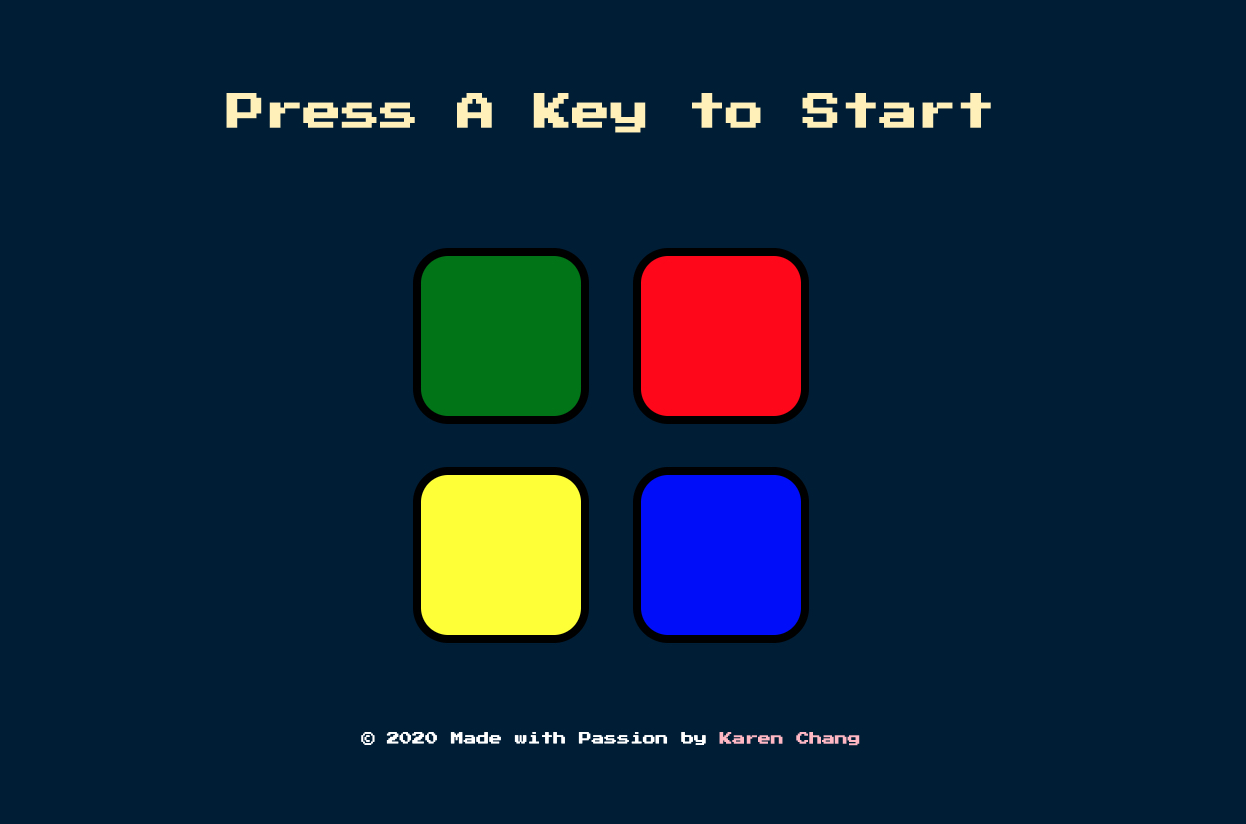
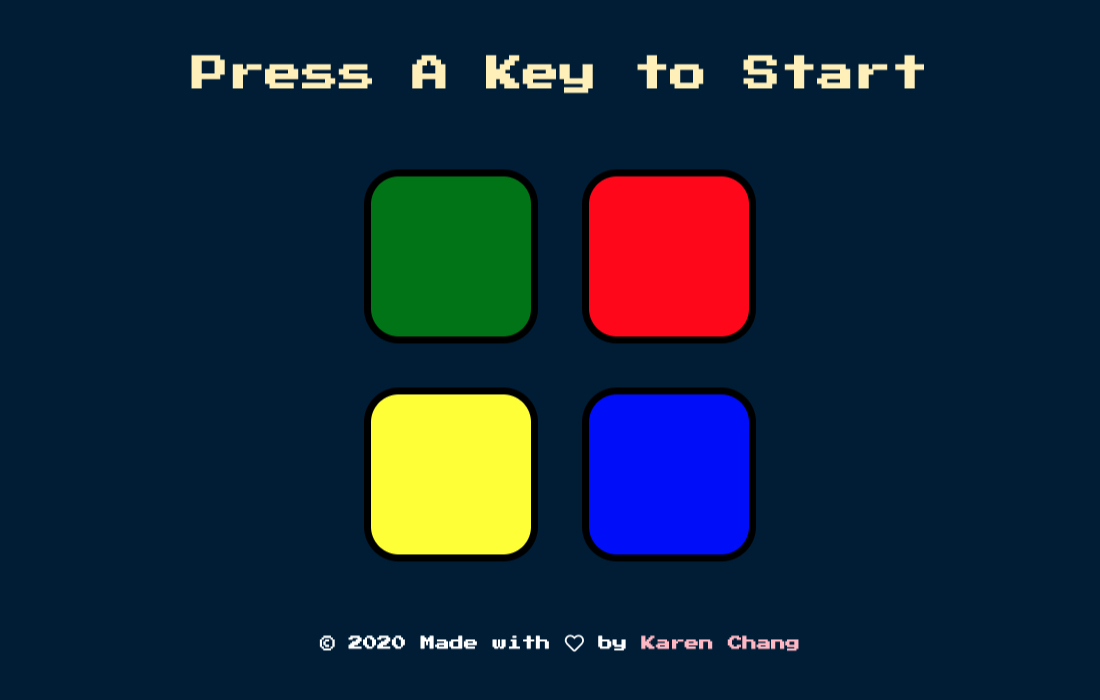
update css

Changed region(s): [[0.3091, 0.24, 0.7109, 0.81], [0.1545, 0.06, 0.8345, 0.18], [0.2782, 0.87, 0.7418, 0.93]]

diff --git a/index.html b/index.html
@@ -4,13 +4,17 @@
 <head>
   <meta charset="utf-8">
   <title>Simon Game</title>
+  <!--font awesome-->
+  <link rel="stylesheet" href="https://use.fontawesome.com/releases/v5.14.0/css/all.css"
+    integrity="sha384-HzLeBuhoNPvSl5KYnjx0BT+WB0QEEqLprO+NBkkk5gbc67FTaL7XIGa2w1L0Xbgc" crossorigin="anonymous">
+
   <link rel="stylesheet" href="styles.css">
   <link href="https://fonts.googleapis.com/css?family=Press+Start+2P" rel="stylesheet">
 </head>
 
 <body>
-  <h1 id="level-title">Press A Key to Start</h1> 
-    
+  <h1 id="level-title">Press A Key to Start</h1>
+
   <div class="container">
     <div lass="row">
 
@@ -37,7 +41,8 @@
   </div>
 
   <footer>
-    © 2020 Made with Passion by <a class="mysite" href="https://karen-developer.com" target="_blank"><strong>Karen Chang</strong></a>
+    © 2020 Made with <i class="far fa-heart"></i> by <a class="karen" href="https://karen-developer.com" target="_blank"><strong>Karen
+        Chang</strong></a>
   </footer>
 
   <script src="https://ajax.googleapis.com/ajax/libs/jquery/3.3.1/jquery.min.js"></script>

diff --git a/styles.css b/styles.css
@@ -6,24 +6,29 @@ body {
 footer {
   font-family: 'Press Start 2P', cursive;
   color: #fff;
+  font-size: .9rem;
   text-align: center;
   margin: 3%;
 }
 
-.mysite {
+.karen {
   color:  pink;
   text-decoration: none;
 }
 
-.mysite:hover {
-  color:  #fff;
+.karen:hover {
+  color: rgb(248, 132, 151);
   text-decoration: none;
+}
+
+footer i {
+  font-size: 1.2rem;
 }
 
 #level-title {
   font-family: 'Press Start 2P', cursive;
-  font-size: 3rem;
-  margin:  4%;
+  font-size: 2.3rem;
+  margin:  3.6%;
   color: #FEF2BF;
 }
 
@@ -35,11 +40,11 @@ footer {
 }
 
 .btn {
-  margin: 25px;
+  margin: 20px;
   display: inline-block;
-  height: 200px;
-  width: 200px;
-  border: 10px solid black;
+  height: 160px;
+  width: 160px;
+  border: 7px solid black;
   border-radius: 20%;
 }
 
